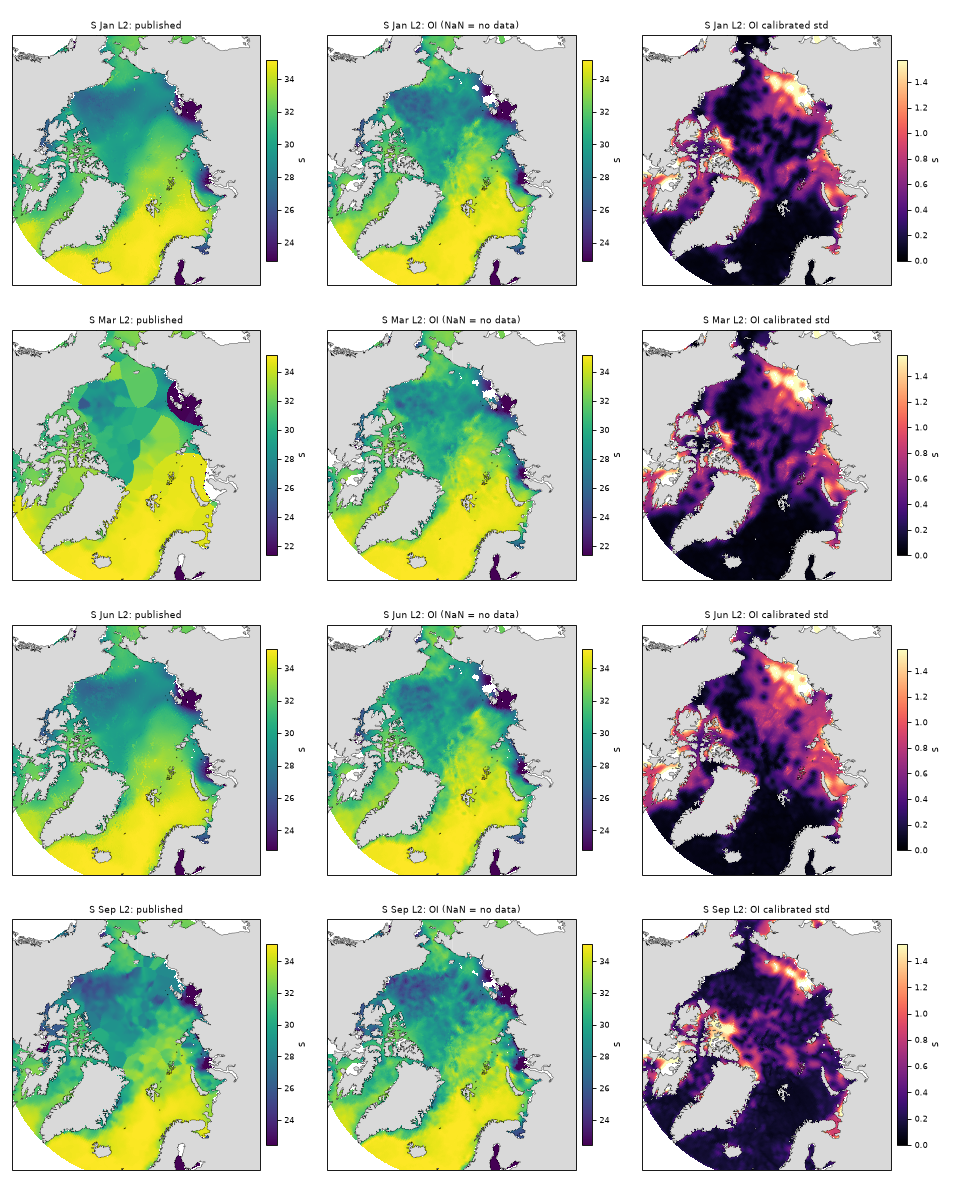
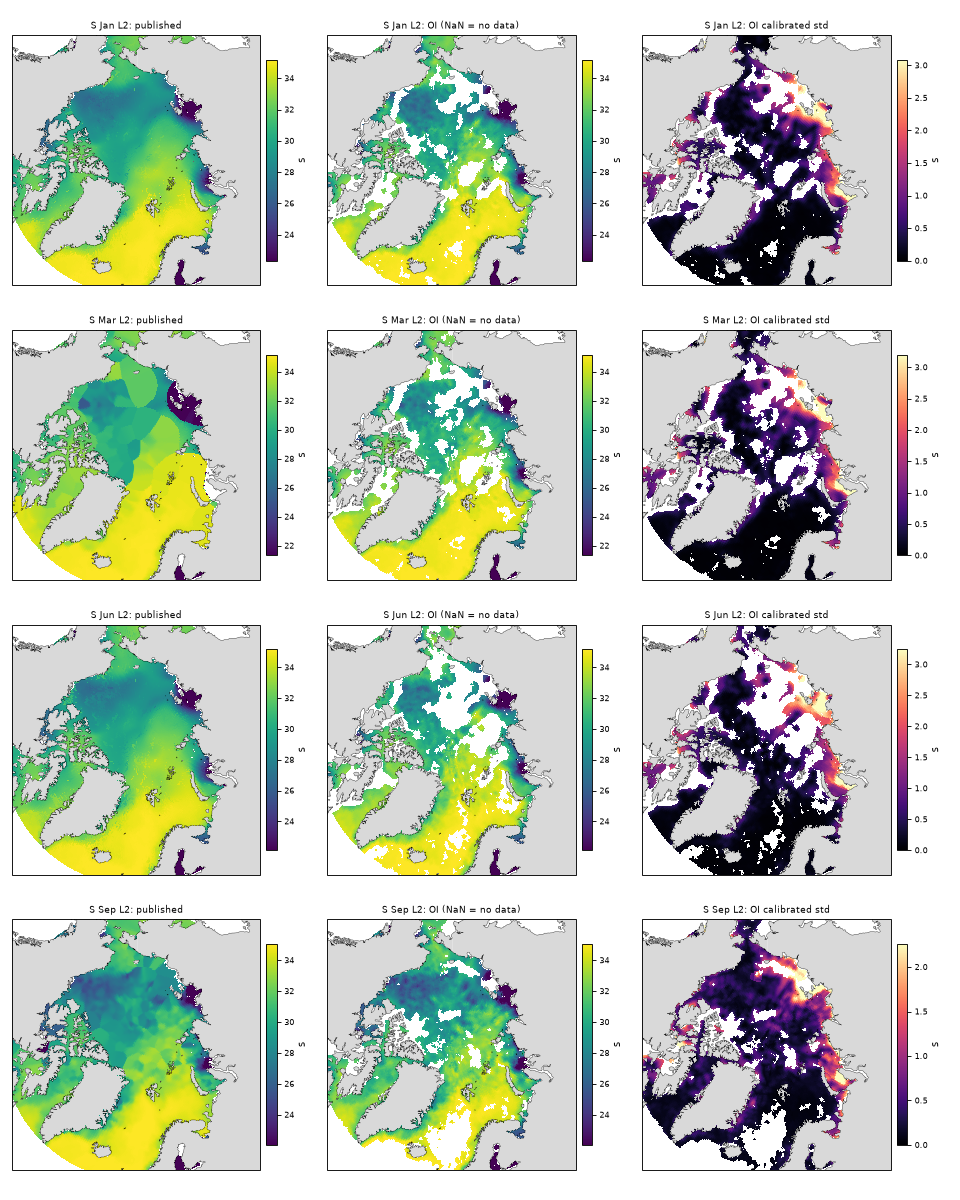
OI: moving-window local prior variance, local-variability mask, remask script

diff --git a/aotd/oi.py b/aotd/oi.py
@@ -19,7 +19,8 @@ PARAMS = dict(
     rmax_fac=2.0,              # only nodes within rmax_fac * L are used
     nsr_a=0.1, nsr_b=0.3,      # obs noise variance = sigma^2 * (a + b / n_profiles_in_node)
     dmax=150.0,                # km: NaN if the nearest observation node (any month) is further away
-    relerr_max=0.25,           # NaN if calibrated error variance exceeds this fraction of the level's total variance
+    relerr_max=1.0,            # NaN if calibrated std exceeds this fraction of the local natural variability (loc_sd)
+    Kw=50, Rw=500.0, n0=10, floor=0.02,  # moving window for local variances: nearest Kw nodes within Rw km; shrinkage
 )
 
 
@@ -46,42 +47,74 @@ def _chord(km):
     return 2.0 * np.sin(km / (2.0 * R_EARTH))
 
 
-def oi_stage(idx, resid, n, targets, L, p=PARAMS, chunk=4000):
-    """Local OI of node residuals. Returns increment, posterior variance, sigma^2 (prior), nearest-node distance km.
+def local_var(pos, resid, nsr, query, glob, p=PARAMS):
+    """Moving-window prior variance: mean squared residual of the Kw nearest nodes within Rw km of each query point,
+    deflated for observation noise and shrunk toward the level-wide value `glob` when few nodes are in the window."""
+    tree = cKDTree(pos)
+    Kw = min(p["Kw"], len(pos))
+    d, nb = tree.query(query, k=Kw, distance_upper_bound=_chord(p["Rw"]))
+    v = np.isfinite(d)
+    nb = np.where(v, nb, 0)
+    cnt = v.sum(1)
+    loc = (np.where(v, resid[nb] ** 2, 0.0).sum(1) / np.maximum(cnt, 1)) / (1.0 + (np.where(v, nsr[nb], 0.0).sum(1) / np.maximum(cnt, 1)))
+    out = (cnt * loc + p["n0"] * glob) / (cnt + p["n0"])
+    return np.maximum(out, p["floor"] * glob)
 
-    targets: indices into the flattened grid. Prior mean of the residual is 0.
+
+def oi_stage(idx, resid, n, targets, L, p=PARAMS, chunk=4000):
+    """Local OI of node residuals with a moving-window prior variance. Prior mean of the residual is 0.
+
+    Returns increment, posterior variance, prior variance at the targets, nearest-node distance km.
     """
     nt = len(targets)
     if len(idx) < 3:
-        return np.zeros(nt), np.full(nt, np.nan), np.nan, np.full(nt, np.inf)
+        return np.zeros(nt), np.full(nt, np.nan), np.full(nt, np.nan), np.full(nt, np.inf)
     nsr = p["nsr_a"] + p["nsr_b"] / n
-    sig2 = max(np.var(resid) / (1.0 + nsr.mean()), 1e-12)
+    glob = max(np.var(resid) / (1.0 + nsr.mean()), 1e-12)
     pos = TARGET_XYZ[idx]
+    s2_node = local_var(pos, resid, nsr, pos, glob, p)
+    s2_t = local_var(pos, resid, nsr, TARGET_XYZ[targets], glob, p)
+    sn, st = np.sqrt(s2_node), np.sqrt(s2_t)
     tree = cKDTree(pos)
     K = min(p["K"], len(idx))
-    rmax = p["rmax_fac"] * L
-    d, nb = tree.query(TARGET_XYZ[targets], k=K, distance_upper_bound=_chord(rmax))
+    d, nb = tree.query(TARGET_XYZ[targets], k=K, distance_upper_bound=_chord(p["rmax_fac"] * L))
     miss = ~np.isfinite(d)
     nb = np.where(miss, 0, nb)
-    dmin = 2.0 * R_EARTH * np.arcsin(np.minimum(d[:, 0], 2.0) / 2.0)
-    dmin = np.where(miss[:, 0], np.inf, dmin)
+    dkm = 2.0 * R_EARTH * np.arcsin(np.minimum(np.where(miss, 2.0, d), 2.0) / 2.0)
+    dmin = np.where(miss[:, 0], np.inf, dkm[:, 0])
     inc = np.zeros(nt)
-    post = np.full(nt, sig2)
+    post = s2_t.copy()
+    eye = np.eye(K)[None]
     for a in range(0, nt, chunk):
         b = min(a + chunk, nt)
         nbc, ms = nb[a:b], miss[a:b]
-        P = pos[nbc]                                            # (m,K,3)
+        P = pos[nbc]
         ch = np.linalg.norm(P[:, :, None, :] - P[:, None, :, :], axis=-1)
         rr = 2.0 * R_EARTH * np.arcsin(np.minimum(ch, 2.0) / 2.0)
-        C = sig2 * np.exp(-(rr / L) ** 2)
-        c = sig2 * np.exp(-((2.0 * R_EARTH * np.arcsin(np.minimum(d[a:b], 2.0) / 2.0)) / L) ** 2)
+        s = sn[nbc]
+        C = s[:, :, None] * s[:, None, :] * np.exp(-(rr / L) ** 2)
+        c = st[a:b, None] * s * np.exp(-(dkm[a:b] / L) ** 2)
         c = np.where(ms, 0.0, c)
         C = np.where(ms[:, :, None] | ms[:, None, :], 0.0, C)
-        C = C + (sig2 * nsr[nbc] + np.where(ms, 1.0, 0.0) * sig2)[:, :, None] * np.eye(K)[None]
+        C = C + (s**2 * nsr[nbc] + np.where(ms, 1.0, 0.0) * s2_t[a:b, None])[:, :, None] * eye
         w = np.linalg.solve(C, c[:, :, None])[:, :, 0]
         inc[a:b] = (w * np.where(ms, 0.0, resid[nbc])).sum(1)
-        post[a:b] = sig2 - (w * c).sum(1)
-    return inc, np.maximum(post, 0.0), sig2, dmin
+        post[a:b] = s2_t[a:b] - (w * c).sum(1)
+    return inc, np.maximum(post, 0.0), s2_t, dmin
+
+
+def local_sd(idx, m, targets, p=PARAMS):
+    """Local natural variability: std of node means in the moving window (all months/years pooled)."""
+    pos = TARGET_XYZ[idx]
+    tree = cKDTree(pos)
+    Kw = min(p["Kw"], len(idx))
+    d, nb = tree.query(TARGET_XYZ[targets], k=Kw, distance_upper_bound=_chord(p["Rw"]))
+    v = np.isfinite(d)
+    nb = np.where(v, nb, 0)
+    cnt = v.sum(1)
+    vals = np.where(v, m[nb], np.nan)
+    sd = np.sqrt(np.nanvar(vals, axis=1))
+    return np.where(cnt >= 5, sd, np.nan)
 
 
 def run_variable(flat, val, month, ok, exclude=None, p=PARAMS):
@@ -89,18 +122,15 @@ def run_variable(flat, val, month, ok, exclude=None, p=PARAMS):
 
     flat: node index of each profile; val: values; month: 1..12; ok: (NY*NX,) bool valid ocean cells at this level;
     exclude: optional bool per profile to withhold (cross-validation).
-    Returns dict(field (12,NY,NX), std (12,NY,NX), dmin (NY,NX), tot_var float).
+    Returns dict(field (12,NY,NX), std (12,NY,NX), dmin (NY,NX), loc_sd (NY,NX)).
     """
     use = np.ones(len(val), bool) if exclude is None else ~exclude
     tgt = np.nonzero(ok)[0]
-    # annual
     idx, m, n = node_table(flat, val, use)
-    mu = np.average(m, weights=None)
-    tot_var = float(np.var(m))
+    mu = m.mean()
     inc, P_a, s2_a, dmin = oi_stage(idx, m - mu, n, tgt, p["L"][0], p)
+    lsd = local_sd(idx, m, tgt, p)
     A = np.full(NY * NX, np.nan); A[tgt] = mu + inc
-    # nodes may lie outside `ok` (e.g. in cells masked at this level); drop them
-    A_full = A.copy()
     PA = np.full(NY * NX, np.nan); PA[tgt] = P_a
     field = np.full((12, NY * NX), np.nan)
     err2 = np.full((12, NY * NX), np.nan)
@@ -110,18 +140,17 @@ def run_variable(flat, val, month, ok, exclude=None, p=PARAMS):
         idx, m, n = node_table(flat, val, sel)
         keep = ok[idx]
         idx, m, n = idx[keep], m[keep], n[keep]
-        inc, P_s, s2_s, _ = oi_stage(idx, m - A_full[idx], n, tgt, p["L"][1], p)
-        S = np.full(NY * NX, np.nan); S[tgt] = A_full[tgt] + (inc if len(idx) >= 3 else 0)
+        inc, P_s, s2_s, _ = oi_stage(idx, m - A[idx], n, tgt, p["L"][1], p)
+        S = np.full(NY * NX, np.nan); S[tgt] = A[tgt] + inc
         Pst = np.full(NY * NX, np.nan)
-        if np.isfinite(s2_s):  # seasonal error carried in proportion to how little the data reduced the prior variance
+        if len(idx) >= 3:  # error of the previous stage is carried in proportion to how little the data reduced the prior
             Pst[tgt] = P_s + (P_s / s2_s) * PA[tgt]
         else:
             Pst[tgt] = PA[tgt]
-        seas[s] = (S, Pst, s2_s)
-    s2_months = []
-    nodata = []
+        seas[s] = (S, Pst)
+    s2_months, nodata = [], []
     for mo in range(1, 13):
-        S, Pst, s2_s = seas[SEASON_OF_MONTH[mo - 1]]
+        S, Pst = seas[SEASON_OF_MONTH[mo - 1]]
         sel = (month == mo) & use
         idx, m, n = node_table(flat, val, sel)
         keep = ok[idx]
@@ -131,14 +160,14 @@ def run_variable(flat, val, month, ok, exclude=None, p=PARAMS):
             field[mo - 1, tgt] = S[tgt] + inc
             err2[mo - 1, tgt] = P_m + (P_m / s2_m) * Pst[tgt]
             s2_months.append(s2_m)
-        else:  # no monthly information: seasonal field with the typical monthly anomaly variance added
+        else:  # no monthly information: seasonal field with the typical local monthly anomaly variance added
             field[mo - 1, tgt] = S[tgt]
             err2[mo - 1, tgt] = Pst[tgt]
             nodata.append(mo - 1)
     for mi in nodata:
-        err2[mi, tgt] += np.median(s2_months) if s2_months else 0.0
+        err2[mi, tgt] += np.nanmedian(s2_months, axis=0) if s2_months else 0.0
     return dict(field=field.reshape(12, NY, NX), std=np.sqrt(err2).reshape(12, NY, NX),
-                dmin=_scatter(dmin, tgt), tot_var=tot_var)
+                dmin=_scatter(dmin, tgt), loc_sd=_scatter(lsd, tgt))
 
 
 def _scatter(v, tgt):
@@ -148,13 +177,12 @@ def _scatter(v, tgt):
 
 
 def apply_mask(res, inflate=1.0, p=PARAMS):
-    """NaN where the nearest observation node is beyond dmax or the calibrated error variance exceeds
-    relerr_max * total variance. `inflate` is the empirical cross-validation calibration of the formal std."""
+    """NaN where the nearest observation node is beyond dmax, or the calibrated std exceeds relerr_max times the local
+    natural variability. `inflate` is the empirical cross-validation calibration of the formal std."""
     bad = ~(res["dmin"] <= p["dmax"])
-    f = np.where(bad[None], np.nan, res["field"])
-    s = np.where(bad[None], np.nan, res["std"] * inflate)
-    bad2 = s**2 > p["relerr_max"] * res["tot_var"]
-    return np.where(bad2, np.nan, f), np.where(bad2, np.nan, s)
+    s = res["std"] * inflate
+    bad2 = bad[None] | ~(s <= p["relerr_max"] * res["loc_sd"][None])
+    return np.where(bad2, np.nan, res["field"]), np.where(bad2, np.nan, s)
 
 
 def block_holdout(flat, frac=0.1, di=8, dj=32, seed=0):

diff --git a/scripts/oi_remask.py b/scripts/oi_remask.py
@@ -1,0 +1,28 @@
+"""Re-apply the NaN mask to saved OI levels with a given relerr_max (no recomputation). Prints coverage per threshold.
+Usage: PYTHONPATH=. python scripts/oi_remask.py 2 20 56 [relerr_max]
+"""
+import sys
+import numpy as np
+import pandas as pd
+from aotd import oi
+
+levels = [int(x) for x in sys.argv[1:] if "." not in x]
+cut = [float(x) for x in sys.argv[1:] if "." in x]
+cv = pd.read_csv("reports/oi/cv_stats.csv")
+for k in levels:
+    d = dict(np.load(f"outputs/oi/level_{k}.npz"))
+    for name in ("T", "S"):
+        infl = max(float(cv[(cv.level == k) & (cv["var"] == name)].z_robust.iloc[0]), 1.0)
+        res = dict(field=d[f"{name}_raw_field"], std=d[f"{name}_raw_std"], dmin=d[f"{name}_dmin"], loc_sd=d[f"{name}_loc_sd"])
+        okc = np.isfinite(res["field"][0])
+        row = []
+        for rm in (0.5, 0.75, 1.0, 1.5):
+            p = dict(oi.PARAMS, relerr_max=rm)
+            f, s = oi.apply_mask(res, infl, p)
+            row.append(f"{rm}: {np.isfinite(f[0])[okc].mean():.2f}")
+        print(k, name, "infl %.2f" % infl, "Jan valid frac by relerr_max ->", "  ".join(row))
+        if cut:
+            p = dict(oi.PARAMS, relerr_max=cut[0])
+            d[f"{name}_field"], d[f"{name}_std"] = oi.apply_mask(res, infl, p)
+    if cut:
+        np.savez(f"outputs/oi/level_{k}.npz", **d)

diff --git a/scripts/oi_levels.py b/scripts/oi_levels.py
@@ -58,7 +58,7 @@ def main(levels):
                   "mean valid frac %.2f" % np.mean(cov), flush=True)
         np.savez(f"{OUT}/level_{k}.npz",
                  **{f"{n}_{q}": a for n, (full, fm, sm) in res_all.items()
-                    for q, a in (("field", fm), ("std", sm), ("raw_field", full["field"]), ("raw_std", full["std"]), ("dmin", full["dmin"]))})
+                    for q, a in (("field", fm), ("std", sm), ("raw_field", full["field"]), ("raw_std", full["std"]), ("dmin", full["dmin"]), ("loc_sd", full["loc_sd"]))})
     pd.DataFrame(rows).to_csv(f"{REP}/cv_stats.csv", index=False)
 
 

diff --git a/HANDOFF.md b/HANDOFF.md
@@ -73,3 +73,9 @@ Upstream mapping has no temporal decorrelation: weights are purely spatial; `Lt 
 - CV (withheld 10% of 2x8 degree blocks, all years pooled): formal std is too small (z-std 2-6.5, robust 1.2-2.4); std is inflated by the robust z (`apply_mask(inflate=...)`). CV RMSE: T 1.34/1.01/0.26 degC, S 0.59/0.17/0.059 psu at 10/100/1500 m.
 - Mask: NaN if nearest obs node (all months/years) > 150 km, or calibrated error variance > 0.25 * total node variance. Valid fraction of published-valid cells: T 0.74/0.86/0.90, S 0.99/0.98/0.36 (10/100/1500 m). Thresholds are tunable policy, to confirm with the user.
 - Caveats: ocean mask still taken from the published fields; time pooled equally over 1983-2023 (no trend/decorrelation); nearest-node binning, no QC port yet; error propagation between stages is approximate (seasonal error carried in proportion to (P_m/sigma_m^2)); only 3 levels run. Not yet validated against Mar/Sep beyond the RMSE/corr columns in cv_stats.csv.
+
+## Moving-window OI variances (2026-10-13)
+- `aotd/oi.py`: prior variance is now local (mean squared residual of the Kw=50 nearest nodes within Rw=500 km, noise-deflated, shrunk toward the level value with n0=10, floor 2%); covariance sigma_i*sigma_j*rho; posterior variance uses the local prior. `local_sd` = std of node means in the same window = local natural variability.
+- Mask: NaN if nearest node > 150 km or calibrated std > relerr_max * local_sd (relerr_max now 1.0). `scripts/oi_remask.py` re-applies a mask to saved levels and prints Jan coverage per threshold.
+- CV z-std improved slightly (robust 1.0-2.2). Jan valid fraction at relerr_max=1.0: T 0.28/0.30/0.14, S 0.73/0.57/0.10 (10/100/1500 m).
+- Finding: a relative rule NaNs the central Arctic at 10 m T, where T is near freezing and local_sd is tiny even though absolute errors are small (see `reports/oi/maps/oi_T_L2.png`). Probably needs an absolute floor (max of relative and absolute tolerance); thresholds are a user policy decision.
